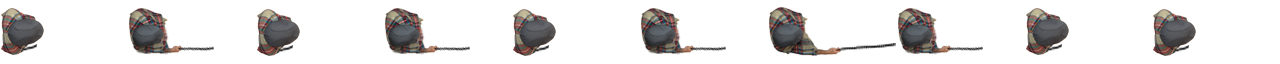
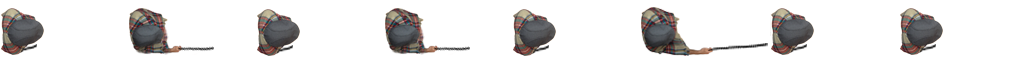
added shepperd and intro with sound

diff --git a/core/src/org/academiadecodigo/bootcamp/milenos/sprites/Shepperd.java b/core/src/org/academiadecodigo/bootcamp/milenos/sprites/Shepperd.java
@@ -19,7 +19,7 @@ public class Shepperd extends Animal {
     }
 
     private static final String PATH_SHEPPERD = "shepperd.png";
-    private static final int NUM_FRAMES = 10;
+    private static final int NUM_FRAMES = 8;
     private static final float CYCLE_TIME = 5.00f;
 
     private Animation shepperdAnimation;
